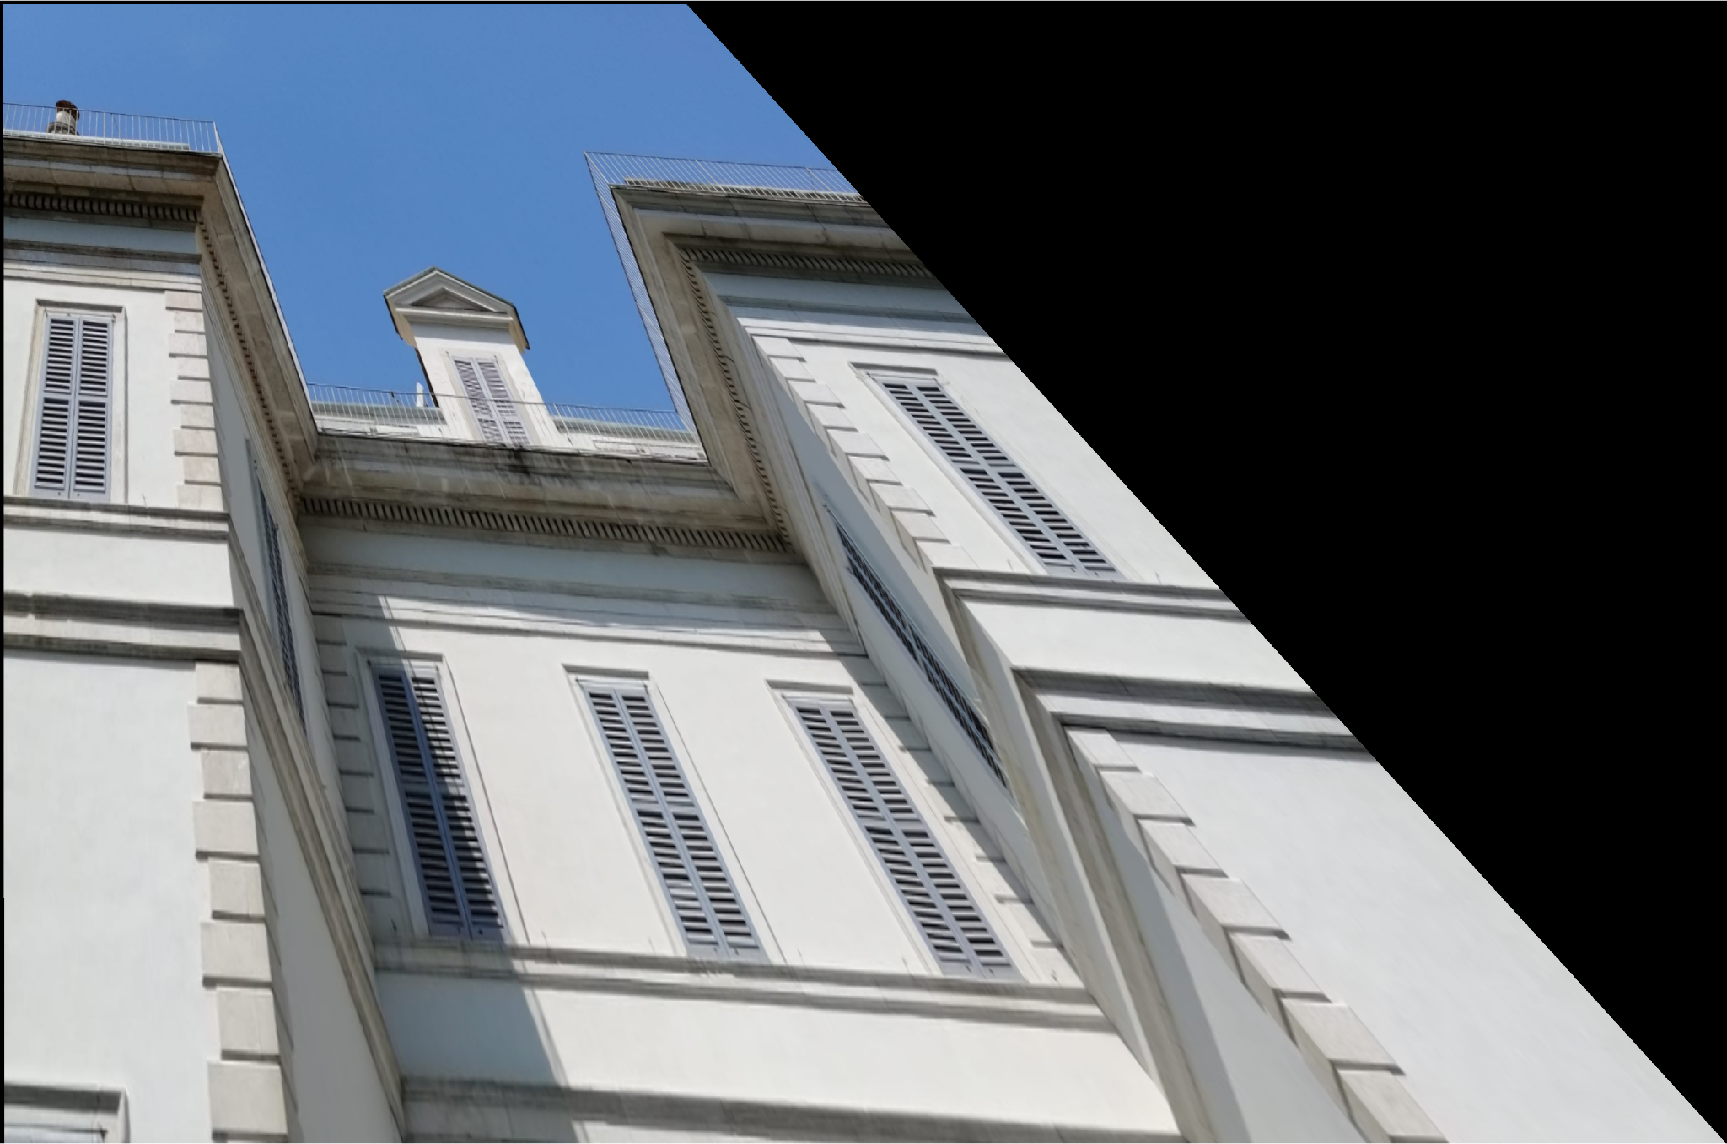
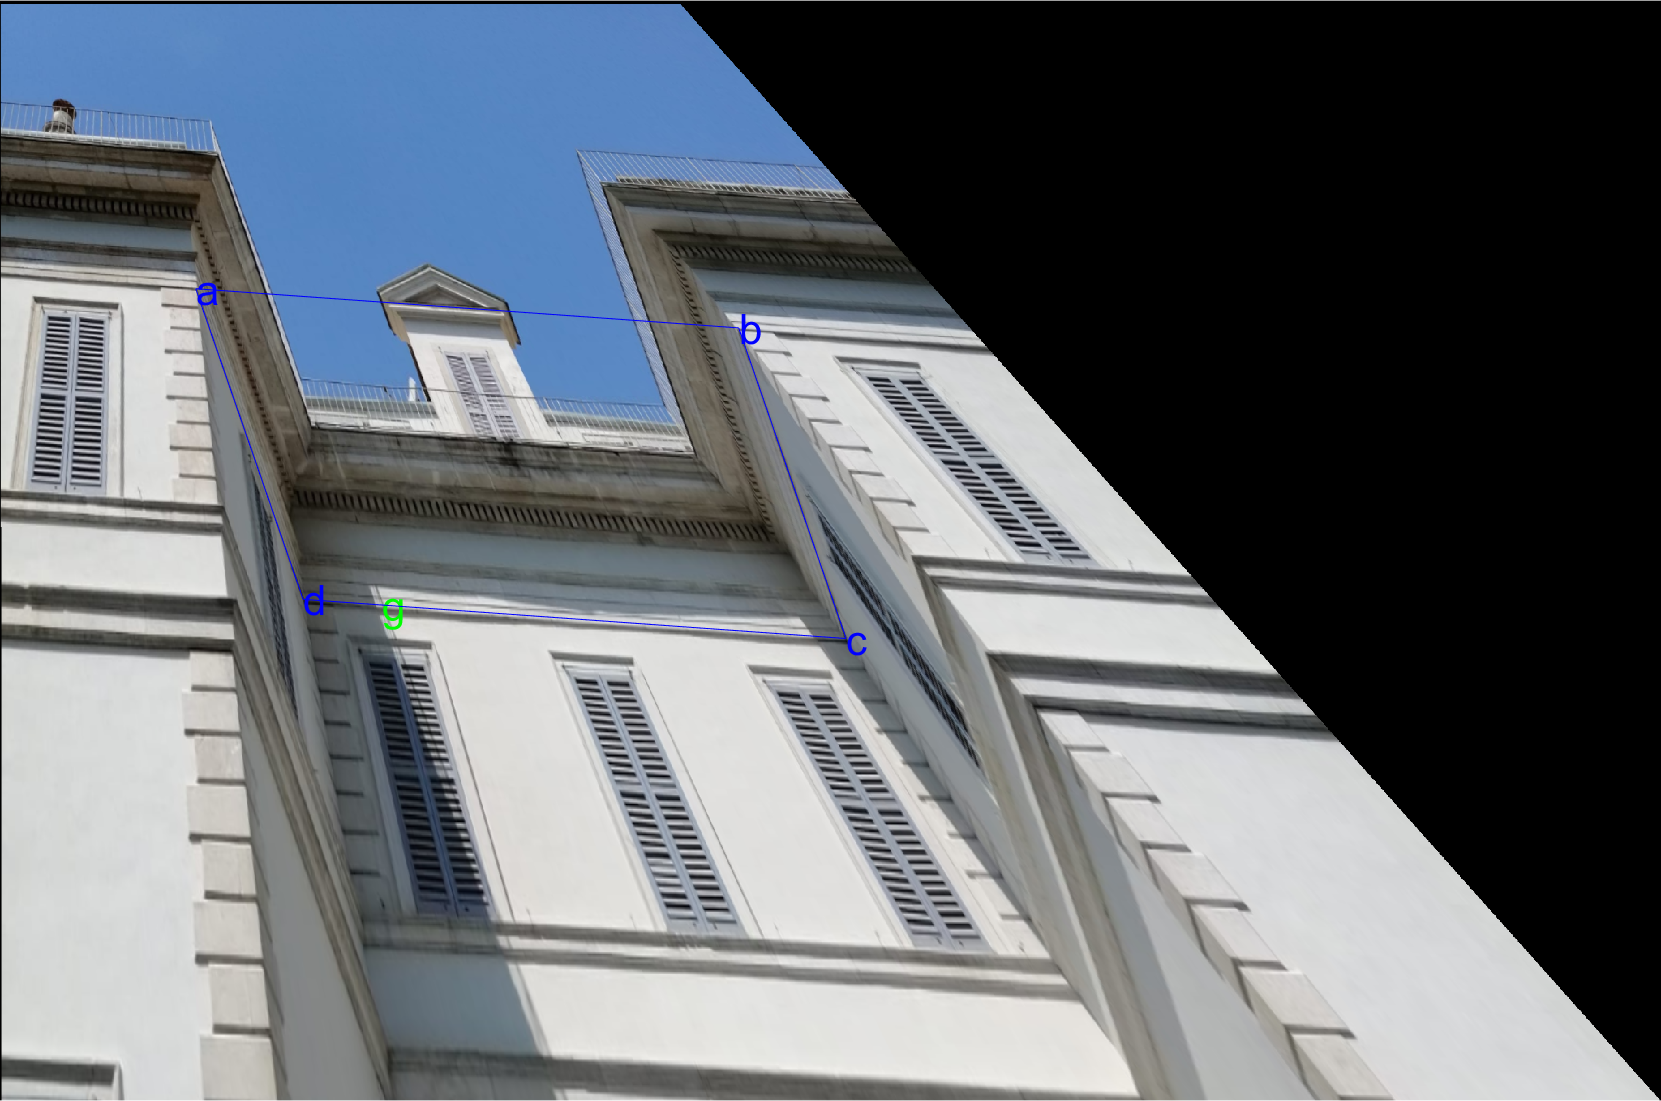
solved point G1 (added shape reconstruction)

diff --git a/src/affine_reconstruction.m b/src/affine_reconstruction.m
@@ -1,17 +1,20 @@
-function img_affine_reconstruction = affine_reconstruction(img,debug)
+function [img_affine_reconstruction, points_affine] = affine_reconstruction(img,debug)
     % AFFINE_RECONSTRUCTION computes the affine mapping of the image scene
     % given in input
     %
     % output
     % img_affine_reconstruction: image obtained from applying the affine
     % reconstruction to the input image
+    % points_affine: main points obtained from applying the affine
+    % reconstruction to the original main points (istantiated at the
+    % beginning of the function)
     % 
     % input
     % img: original image over which we apply the affine reconstrution
     % debug: true to display the images
     
 
-    % the image of the line at the infinity must be mapped into itself
+    % the image of the line at the infinity must be mapped onto itself
     % (this occurs if and only if the projective transformation H is affine)
     % H = [1    0    0
     %      0    1    0
@@ -19,19 +22,35 @@ function img_affine_reconstruction = affine_reconstruction(img,debug)
     % where l1, l2, l3 are the coordinates of the normalized line at the
     % infinite
 
-
-    % istantiate the four points used to compute the parallel lines
-    upper_left_point = [199; 561; 1];   % a
-    upper_right_point = [854; 584; 1];  % b
-    lower_right_point = [746; 733; 1];  % c
-    lower_left_point = [254; 722; 1];   % d
     
-    % compute lines
+    %% istantiate main points
+    % istantiate the four points used to compute the parallel lines
+    upper_left_point = [227; 334; 1];   % a
+    upper_right_point = [821; 364; 1];  % b
+    lower_right_point = [732; 552; 1];  % c
+    lower_left_point = [271; 535; 1];   % d
+
+    % istantiate the two point belonging to the shadow vertical line
+    lower_shadow_point = [343; 1300; 1];
+    middle_shadow_point = [342; 1065; 1];
+    
+
+    %% compute lines
     upper_horizontal_line = cross(upper_left_point, upper_right_point);
     lower_horizontal_line = cross(lower_left_point, lower_right_point);
     left_oblique_line = cross(upper_left_point, lower_left_point);
     right_oblique_line = cross(upper_right_point, lower_right_point);
-     
+    shadow_line = cross(lower_shadow_point, middle_shadow_point);
+
+
+    %% compute intersection between the shaodow vertical line and the lower_horizontal_line
+    upper_shadow_point = cross(shadow_line, lower_horizontal_line);
+
+    % normalize
+    upper_shadow_point = upper_shadow_point/upper_shadow_point(3);
+
+    
+    %% compute vanishing points
     % compute vanishing points
     vanishing_point_A = cross(upper_horizontal_line, lower_horizontal_line);
     vanishing_point_B = cross(left_oblique_line, right_oblique_line);
@@ -39,7 +58,9 @@ function img_affine_reconstruction = affine_reconstruction(img,debug)
     % normalize vanishing points
     vanishing_point_A = vanishing_point_A / vanishing_point_A(3);
     vanishing_point_B = vanishing_point_B / vanishing_point_B(3);
+    
 
+    %% compute image of the line at the infinity
     % compute the image of the line at the infinity
     im_line_inf = cross(vanishing_point_A, vanishing_point_B);
     
@@ -47,24 +68,30 @@ function img_affine_reconstruction = affine_reconstruction(img,debug)
     im_line_inf = im_line_inf / im_line_inf(3);
     
 
-    %% plot points, parallel lines, vanishing points, line at the infinite
+    %% plot main points, parallel lines, vanishing points, line at the infinite
     if debug
         FNT_SZ = 20;
-        figure("Name","Original image"), imshow(img), hold on;
+        figure("Name","Original image"), imshow(img, "Border", 'tight'), hold on;
         text(upper_left_point(1), upper_left_point(2), 'a', 'FontSize', FNT_SZ, 'Color', 'b')
         text(upper_right_point(1), upper_right_point(2), 'b', 'FontSize', FNT_SZ, 'Color', 'b')
         text(lower_right_point(1), lower_right_point(2), 'c', 'FontSize', FNT_SZ, 'Color', 'b')
         text(lower_left_point(1), lower_left_point(2), 'd', 'FontSize', FNT_SZ, 'Color', 'b')
+        text(lower_shadow_point(1), lower_shadow_point(2), 'e', 'FontSize', FNT_SZ, 'Color', 'g')
+        text(lower_shadow_point(1), middle_shadow_point(2), 'f', 'FontSize', FNT_SZ, 'Color', 'g')
+        text(upper_shadow_point(1), upper_shadow_point(2), 'g', 'FontSize', FNT_SZ, 'Color', 'g')
         
         plot([upper_left_point(1), vanishing_point_A(1)], [upper_left_point(2), vanishing_point_A(2)], 'b');
         plot([lower_left_point(1), vanishing_point_A(1)], [lower_left_point(2), vanishing_point_A(2)], 'b');
         plot([upper_left_point(1), vanishing_point_B(1)], [upper_left_point(2), vanishing_point_B(2)], 'b');
         plot([upper_right_point(1), vanishing_point_B(1)], [upper_right_point(2), vanishing_point_B(2)], 'b');
-        
-        text(vanishing_point_A(1), vanishing_point_A(2), 'v1', 'FontSize', FNT_SZ, 'Color', 'b')
-        text(vanishing_point_B(1), vanishing_point_B(2), 'v2', 'FontSize', FNT_SZ, 'Color', 'b')
+        plot([lower_shadow_point(1), upper_shadow_point(1)], [lower_shadow_point(2), upper_shadow_point(2)], 'g');
+       
+        text(vanishing_point_A(1), vanishing_point_A(2), 'v1', 'FontSize', FNT_SZ, 'Color', 'r')
+        text(vanishing_point_B(1), vanishing_point_B(2), 'v2', 'FontSize', FNT_SZ, 'Color', 'r')
         
         plot([vanishing_point_A(1), vanishing_point_B(1)], [vanishing_point_A(2), vanishing_point_B(2)], 'r--')
+
+        saveas(gcf, "images/image_original_lines.png");
 
     end
 
@@ -79,14 +106,55 @@ function img_affine_reconstruction = affine_reconstruction(img,debug)
     end
 
     
-    %% rectify the image and show the result
+    %% rectify the image
     tform = projective2d(H_affine');
     img_affine_reconstruction = imwarp(img, tform);
-    img_affine_reconstruction = imcrop(img_affine_reconstruction,[5290, 7500, 3000, 2000]);
+    img_affine_reconstruction = imcrop(img_affine_reconstruction,[6010, 8332, 3000, 2000]);
 
+
+    %% rectify the main points
+    [upper_left_point_affine(1),upper_left_point_affine(2)]  = transformPointsForward(tform,upper_left_point(1),upper_left_point(2));
+    [upper_right_point_affine(1),upper_right_point_affine(2)] = transformPointsForward(tform,upper_right_point(1),upper_right_point(2));
+    [lower_right_point_affine(1),lower_right_point_affine(2)] = transformPointsForward(tform,lower_right_point(1),lower_right_point(2));
+    [lower_left_point_affine(1),lower_left_point_affine(2)] = transformPointsForward(tform,lower_left_point(1),lower_left_point(2));
+    [upper_shadow_point_affine(1),upper_shadow_point_affine(2)] = transformPointsForward(tform,upper_shadow_point(1),upper_shadow_point(2));
+
+
+    %% assign the rectified main points to the return struct points_affine
+    points_affine = struct('upper_left_point', [upper_left_point_affine';1], ...
+                           'upper_right_point', [upper_right_point_affine';1], ...
+                           'lower_right_point', [lower_right_point_affine';1], ...
+                           'lower_left_point', [lower_left_point_affine';1], ...
+                           'upper_shadow_point', [upper_shadow_point_affine';1]);
+
+
+    %% compute the ratio between facade 3 and the horizontal shadow segment dg (invariant ratio of length of colinear lines)
+    facade_3_length = norm(lower_right_point_affine-lower_left_point_affine, 2);
+    shadow_segment_length = norm(upper_shadow_point_affine-lower_left_point_affine, 2);
+    
+    ratio = facade_3_length/shadow_segment_length;
+
+
+
+    %% show the result
     if debug
-        figure("Name", 'Affine rectification')
-        imshow(img_affine_reconstruction, "Border", 'tight');
+        
+        figure("Name", 'Affine rectification');
+        imshow(img_affine_reconstruction, "Border", 'tight'); hold on;
+
+        text(upper_left_point_affine(1), upper_left_point_affine(2), 'a', 'FontSize', FNT_SZ, 'Color', 'b')
+        text(upper_right_point_affine(1), upper_right_point_affine(2), 'b', 'FontSize', FNT_SZ, 'Color', 'b')
+        text(lower_right_point_affine(1), lower_right_point_affine(2), 'c', 'FontSize', FNT_SZ, 'Color', 'b')
+        text(lower_left_point_affine(1), lower_left_point_affine(2), 'd', 'FontSize', FNT_SZ, 'Color', 'b')
+        text(upper_shadow_point_affine(1), upper_shadow_point_affine(2), 'g', 'FontSize', FNT_SZ, 'Color', 'g')
+
+        plot([upper_left_point_affine(1), lower_left_point_affine(1)], [upper_left_point_affine(2), lower_left_point_affine(2)], 'b');
+        plot([upper_right_point_affine(1), lower_right_point_affine(1)], [upper_right_point_affine(2), lower_right_point_affine(2)], 'b');
+        plot([upper_left_point_affine(1), upper_right_point_affine(1)], [upper_left_point_affine(2), upper_right_point_affine(2)], 'b');
+        plot([lower_left_point_affine(1), lower_right_point_affine(1)], [lower_left_point_affine(2), lower_right_point_affine(2)], 'b');
+
+        fprintf('The ratio between facade 3 and the shadow segment dg after affine reconstruction is: %f/%f = %f\n', facade_3_length, shadow_segment_length, ratio);
+
         saveas(gcf, "images/image_affine_reconstruction.png");
     end
 

diff --git a/src/shape_reconstruction.m b/src/shape_reconstruction.m
@@ -1,0 +1,146 @@
+function [img_shape_reconstruction, points_shape] = shape_reconstruction(img_affine,points_affine, debug)
+    %SHAPE_RECONSTRUCTION computes the shape reconstruction of the affine 
+    % image scene given in input
+    %
+    % output
+    % img_shape_reconstruction: image obtained from applying the shape
+    % reconstruction to the input image
+    % points_shape: main points obtained from applying the shape
+    % reconstruction to the affine main points
+    % 
+    % input
+    % img_affine: affine image scene over which we apply the affine reconstrution
+    % points_affine: main points obtained from applying the shape reconstruction
+    % to the original main points
+    % debug: true to display the images
+    
+
+    % the image of the circular points I and J must be mapped onto themselves
+    % (this occurs if and only if the projective transformation H is a similarity)
+    % we will use an equivalent information: degenerate conic dual to (I', J')
+    % where I' and J' are the images of the circular points
+
+
+    %% istantiate main affine points
+    upper_left_point_affine = points_affine.upper_left_point;
+    upper_right_point_affine = points_affine.upper_right_point;
+    lower_right_point_affine = points_affine.lower_right_point;
+    lower_left_point_affine = points_affine.lower_left_point;
+    upper_shadow_point_affine = points_affine.upper_shadow_point;
+    
+    %% store the constraints in a matrix A (we need at least two indipendent constraints)
+    % pair of orthogonal lines gives rise to a constraint on s
+    % [l(1)*m(1),l(1)*m(2)+l(2)*m(1), l(2)*m(2)]*s = 0
+
+    l = cross(lower_left_point_affine, lower_right_point_affine);
+    m = cross(lower_left_point_affine, upper_left_point_affine);
+    
+    A(1,:) = [l(1)*m(1),l(1)*m(2)+l(2)*m(1), l(2)*m(2)];
+
+
+    % invariant ratio of lengths gives rise to a constraint on s
+    % [seg_1(1)^2-k*seg_2(1)^2, seg_1(1)*seg_1(2)-k*seg_2(1)*seg_2(2), seg_1(2)^2-k*seg_2(2)^2]*s = 0
+    k = (1/3.9)^2;  % squared ratio
+    seg_1 = upper_shadow_point_affine - lower_left_point_affine;
+    seg_2 = upper_left_point_affine - lower_left_point_affine;
+
+    A(2,:) = [seg_1(1)^2-k*seg_2(1)^2, 2*(seg_1(1)*seg_1(2)-k*seg_2(1)*seg_2(2)), seg_1(2)^2-k*seg_2(2)^2];
+    
+
+    %% solve the system
+    %S = [x(1) x(2); x(2) 1];
+    [~,~,v] = svd(A);
+    s = v(:,end); %[s11,s12,s22];
+    S = [s(1),s(2); s(2),s(3)];
+
+    
+    %% compute the rectifying homography
+    imDCCP = [S,zeros(2,1); zeros(1,3)]; % the image of the circular points
+    [U,D,V] = svd(S);
+    A = U*sqrt(D)*V';
+    H = eye(3);
+    H(1,1) = A(1,1);
+    H(1,2) = A(1,2);
+    H(2,1) = A(2,1);
+    H(2,2) = A(2,2);
+    
+    H_shape = inv(H);
+    Cinfty = [eye(2),zeros(2,1);zeros(1,3)];
+    tform = projective2d(H_shape');
+    img_shape_reconstruction = imwarp(img_affine,tform);
+    img_shape_reconstruction = imcrop(img_shape_reconstruction,[0, 380, 3140, 3000]);
+
+
+    %% rectify the main points
+    [upper_left_point_shape(1),upper_left_point_shape(2)]  = transformPointsForward(tform,upper_left_point_affine(1),upper_left_point_affine(2));
+    [upper_right_point_shape(1),upper_right_point_shape(2)] = transformPointsForward(tform,upper_right_point_affine(1),upper_right_point_affine(2));
+    [lower_right_point_shape(1),lower_right_point_shape(2)] = transformPointsForward(tform,lower_right_point_affine(1),lower_right_point_affine(2));
+    [lower_left_point_shape(1),lower_left_point_shape(2)] = transformPointsForward(tform,lower_left_point_affine(1),lower_left_point_affine(2));
+    [upper_shadow_point_shape(1),upper_shadow_point_shape(2)] = transformPointsForward(tform,upper_shadow_point_affine(1),upper_shadow_point_affine(2));
+    
+
+    %% shift main points to better plot them
+    shift(1) = 1696 - upper_right_point_shape(1);
+    shift(2) = 731 - upper_right_point_shape(2);
+    upper_left_point_shape(1) = upper_left_point_shape(1)+shift(1);
+    upper_left_point_shape(2) = upper_left_point_shape(2)+shift(2);
+    upper_right_point_shape(1) = upper_right_point_shape(1)+shift(1);
+    upper_right_point_shape(2) = upper_right_point_shape(2)+shift(2);
+    lower_right_point_shape(1) = lower_right_point_shape(1)+shift(1);
+    lower_right_point_shape(2) = lower_right_point_shape(2)+shift(2);
+    lower_left_point_shape(1) = lower_left_point_shape(1)+shift(1);
+    lower_left_point_shape(2) = lower_left_point_shape(2)+shift(2);
+    upper_shadow_point_shape(1) = upper_shadow_point_shape(1)+shift(1);
+    upper_shadow_point_shape(2) = upper_shadow_point_shape(2)+shift(2);
+
+
+    %% assign the rectified main points to the return struct points_shape
+    points_shape = struct('upper_left_point', [upper_left_point_shape';1], ...
+                       'upper_right_point', [upper_right_point_shape';1], ...
+                       'lower_right_point', [lower_right_point_shape';1], ...
+                       'lower_left_point', [lower_left_point_shape';1], ...
+                       'upper_shadow_point', [upper_shadow_point_shape';1]);
+
+
+    %% compute the ratio between facade 3 and the horizontal shadow segment (invariant ratio of length)
+    facade_3_length = norm(lower_right_point_shape-lower_left_point_shape, 2);
+    shadow_segment_length = norm(upper_shadow_point_shape-lower_left_point_shape, 2);
+    
+    ratio_fs = facade_3_length/shadow_segment_length;   % ratio facade shadow
+
+
+    %% compute the ratio between facade 2 and facade 3 (invariant ratio of length)
+    facade_2_length = norm(upper_left_point_shape-lower_left_point_shape, 2);
+    
+    ratio_ff = facade_2_length/facade_3_length;  % ratio facade 3 and facade 2
+
+
+    %% show the result
+    if debug
+
+        FNT_SZ = 20;
+        figure;
+        imshow(img_shape_reconstruction, 'Border', 'tight'); hold on;
+    
+        text(upper_left_point_shape(1), upper_left_point_shape(2), 'a', 'FontSize', FNT_SZ, 'Color', 'b')
+        text(upper_right_point_shape(1), upper_right_point_shape(2), 'b', 'FontSize', FNT_SZ, 'Color', 'b')
+        text(lower_right_point_shape(1), lower_right_point_shape(2), 'c', 'FontSize', FNT_SZ, 'Color', 'b')
+        text(lower_left_point_shape(1), lower_left_point_shape(2), 'd', 'FontSize', FNT_SZ, 'Color', 'b')
+        text(upper_shadow_point_shape(1), upper_shadow_point_shape(2), 'g', 'FontSize', FNT_SZ, 'Color', 'g')
+    
+        plot([upper_left_point_shape(1), lower_left_point_shape(1)], [upper_left_point_shape(2), lower_left_point_shape(2)], 'b');
+        plot([upper_right_point_shape(1), lower_right_point_shape(1)], [upper_right_point_shape(2), lower_right_point_shape(2)], 'b');
+        plot([upper_left_point_shape(1), upper_right_point_shape(1)], [upper_left_point_shape(2), upper_right_point_shape(2)], 'b');
+        plot([lower_left_point_shape(1), lower_right_point_shape(1)], [lower_left_point_shape(2), lower_right_point_shape(2)], 'b');
+
+        saveas(gcf, "images/image_shape_reconstruction.png");
+
+        fprintf('The ratio between facade 3 and the shadow segment dg after shape reconstruction is: %f/%f = %f\n', facade_3_length, shadow_segment_length, ratio_fs);
+        fprintf('The ratio between facade 2 and facade 3 after shape reconstruction is: %f/%f = %f\n', facade_2_length, facade_3_length, ratio_ff);
+
+    end
+
+
+
+end
+

diff --git a/src/main.m b/src/main.m
@@ -8,7 +8,7 @@ addpath(genpath([pwd, filesep, 'utils']));
 addpath(genpath([pwd, filesep, 'images']));
 
 
-%% set global variables
+%% set variables
 debug = true;
 FNT_SZ = 20;
 
@@ -32,7 +32,12 @@ img_corners = corner_detection(img, debug);
 %% G1. 2D reconstruction of a horizontal section
 % stratified appraoch: image scene --> affine reconstruction --> shape reconstruction
 
-img_affine_reconstruction = affine_reconstruction(img, debug);
+[img_affine, points_affine] = affine_reconstruction(img, debug);
+
+[img_shape, points_shape] = shape_reconstruction(img_affine, points_affine, debug);
+
+
+%% G2. Calibration
 
 
 
